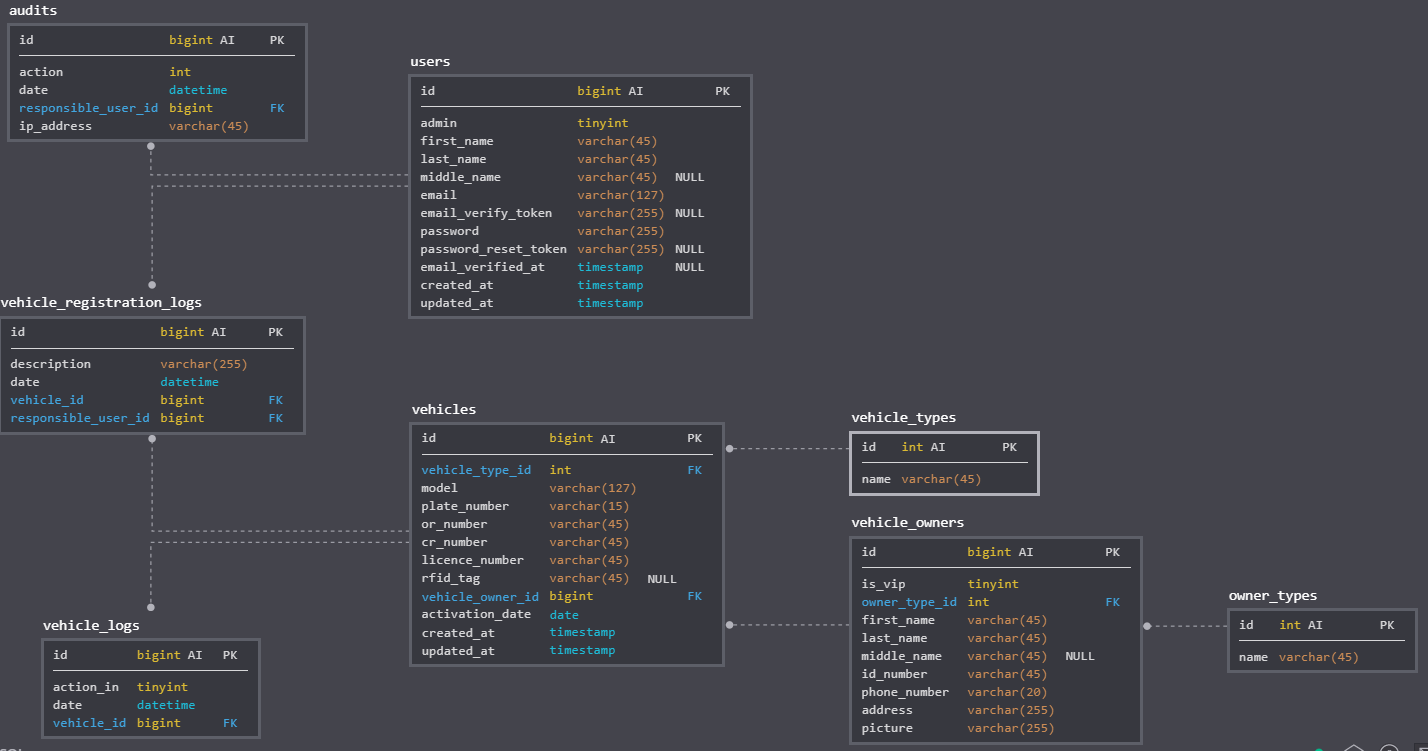
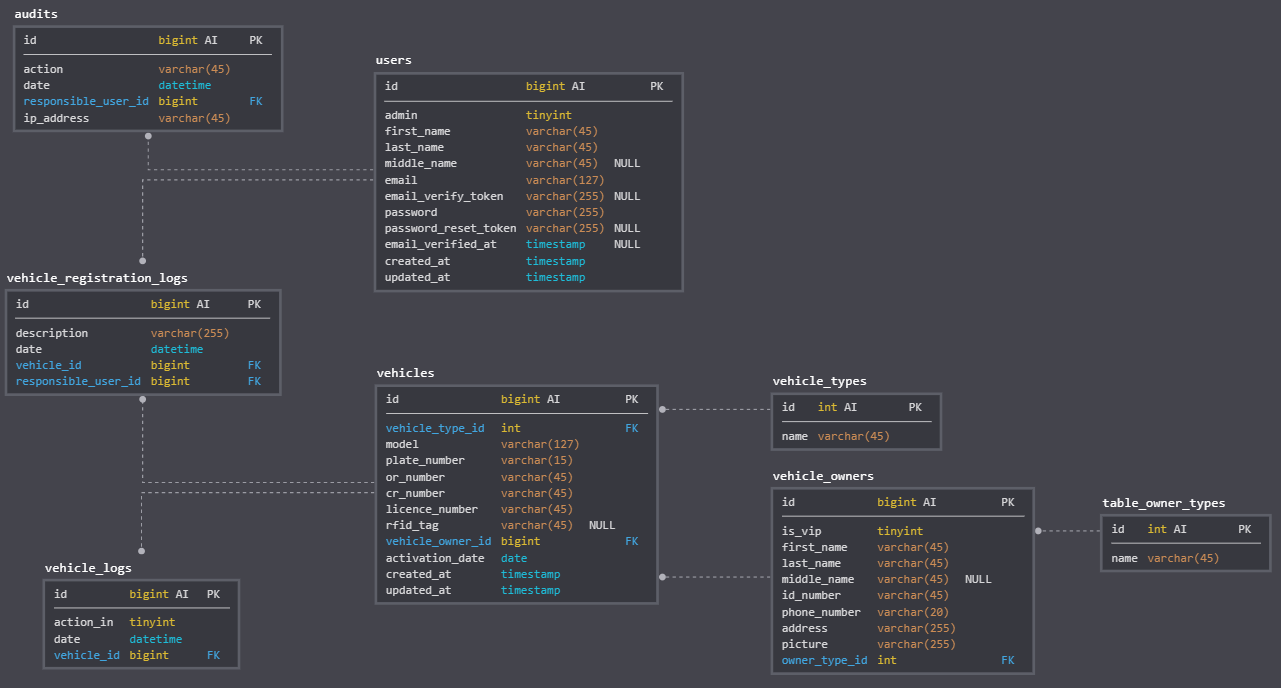
add owner types, and add owners to database + seeding

diff --git a/database/migrations/2020_05_10_051729_create_vehicle_owners.php b/database/migrations/2020_05_10_051729_create_vehicle_owners.php
@@ -1,0 +1,43 @@
+<?php
+
+use Illuminate\Database\Migrations\Migration;
+use Illuminate\Database\Schema\Blueprint;
+use Illuminate\Support\Facades\Schema;
+
+class CreateVehicleOwners extends Migration
+{
+    /**
+     * Run the migrations.
+     *
+     * @return void
+     */
+    public function up()
+    {
+        Schema::create('vehicle_owners', function (Blueprint $table) {
+            $table->bigIncrements('id');
+            $table->boolean('is_vip')->default(false);
+            $table->string('first_name');
+            $table->string('last_name');
+            $table->string('middle_name')->nullable();
+            $table->string('id_number')->nullable();
+            $table->string('phone_number');
+            $table->string('address');
+            $table->string('picture');
+            $table->unsignedTinyInteger('owner_type_id')->nullable();
+
+            $table->foreign('owner_type_id')->references('id')->on('owner_types')->onDelete('set null');
+
+            $table->timestamps();
+        });
+    }
+
+    /**
+     * Reverse the migrations.
+     *
+     * @return void
+     */
+    public function down()
+    {
+        Schema::dropIfExists('vehicle_owners');
+    }
+}

diff --git a/database/seeds/DatabaseSeeder.php b/database/seeds/DatabaseSeeder.php
@@ -1,6 +1,8 @@
 <?php
 
+use App\Models\OwnerType;
 use App\Models\User;
+use App\Models\VehicleOwner;
 use App\Models\VehicleType;
 use Illuminate\Database\Seeder;
 
@@ -13,7 +15,20 @@ class DatabaseSeeder extends Seeder
      */
     public function run()
     {
-        // $this->call(UsersTableSeeder::class);
+        OwnerType::create(array('name' => 'visitor'));
+        OwnerType::create(array('name' => 'faculty'));
+        OwnerType::create(array('name' => 'student'));
+
+        VehicleOwner::create([
+            'first_name' => 'John',
+            'last_name' => 'Doe',
+            'id_number' => '0123456789',
+            'phone_number' => '09 (XXX) XX XX XX',
+            'address' => 'Saint Mary\'s University, Bayombong, 3700',
+            'picture' => 'images/vehicle_owners/owner.jpg',
+            'owner_type_id' => 2,
+        ]);
+
         VehicleType::create(array('name' => 'car'));
         VehicleType::create(array('name' => 'motorcycle'));
         VehicleType::create(array('name' => 'bus'));

diff --git a/database/migrations/2020_05_10_051212_create_owner_types.php b/database/migrations/2020_05_10_051212_create_owner_types.php
@@ -4,7 +4,7 @@ use Illuminate\Database\Migrations\Migration;
 use Illuminate\Database\Schema\Blueprint;
 use Illuminate\Support\Facades\Schema;
 
-class CreateTagRequests extends Migration
+class CreateOwnerTypes extends Migration
 {
     /**
      * Run the migrations.
@@ -13,11 +13,10 @@ class CreateTagRequests extends Migration
      */
     public function up()
     {
-        Schema::create('tag_requests', function (Blueprint $table) {
-            $table->bigIncrements('id');
-            $table->string('tag');
-            $table->boolean('seen')->default(false);
-            $table->timestamps();
+        Schema::create('owner_types', function (Blueprint $table) {
+            $table->tinyIncrements('id');
+            $table->string('name');
+            //$table->timestamps();
         });
     }
 
@@ -28,6 +27,6 @@ class CreateTagRequests extends Migration
      */
     public function down()
     {
-        Schema::dropIfExists('tag_requests');
+        Schema::dropIfExists('owner_types');
     }
 }

diff --git a/app/Models/VehicleOwner.php b/app/Models/VehicleOwner.php
@@ -1,0 +1,13 @@
+<?php
+
+namespace App\Models;
+
+use Illuminate\Database\Eloquent\Model;
+
+class VehicleOwner extends Model
+{
+    public function ownerType()
+    {
+        return $this->belongsTo(OwnerType::class);
+    }
+}

diff --git a/app/Models/OwnerType.php b/app/Models/OwnerType.php
@@ -4,7 +4,7 @@ namespace App\Models;
 
 use Illuminate\Database\Eloquent\Model;
 
-class TagRequest extends Model
+class OwnerType extends Model
 {
-    //
+    public $timestamps = false;
 }
